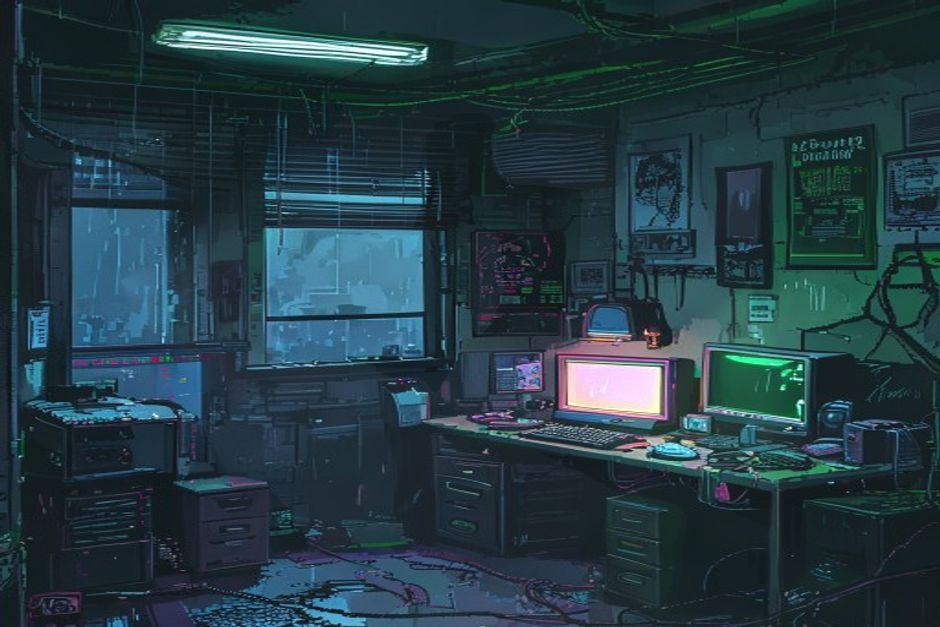
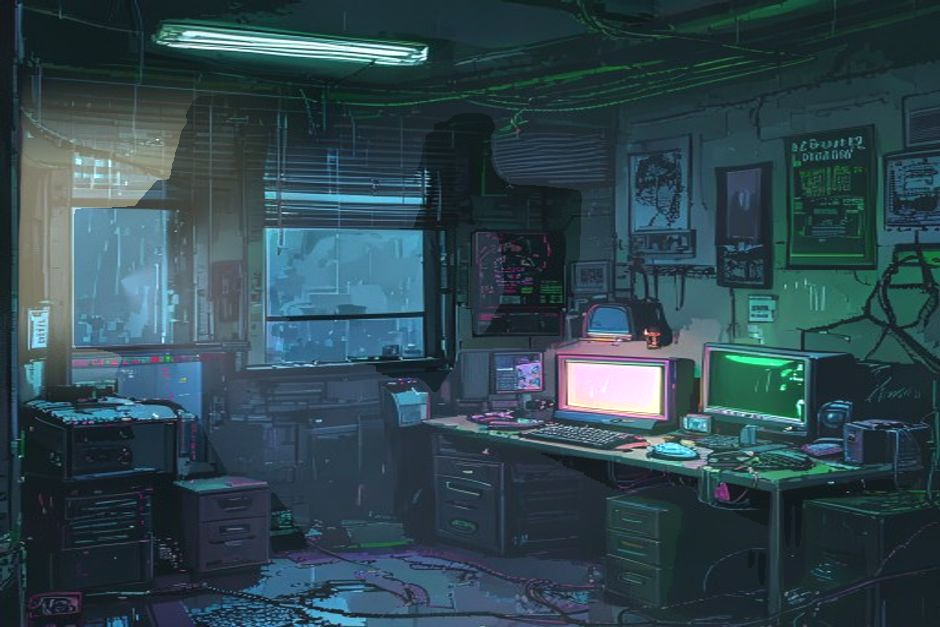
feat: 24 frames for smoother animation (was 12)
- NUM_FRAMES: 12 → 24 (doubled)
- Frame interval: 800ms → 83ms (2s loop)
- Avg inter-frame diff: 1.36 (smoother)
- Loop closure: 1.26 (seamless)

Changed region(s): [[0.0, 0.1515, 0.3394, 0.6667]]

diff --git a/index.html b/index.html
@@ -859,7 +859,7 @@ const Game = {
   bgFrames: {},
   currentFrame: 0,
   frameTimer: 0,
-  frameInterval: 800,
+  frameInterval: 83,
   masks: {},
   objMasks: {},
   selectedItem: null,
@@ -887,7 +887,7 @@ const Game = {
       'bg_tower_exterior', 'bg_server_room', 'bg_rooftop', 'bg_office'
     ];
     const portraits = ['portrait_kai', 'portrait_oracle'];
-    const NUM_FRAMES = 12; // AI 关键帧 + 光流插值生成 12 帧/场景
+    const NUM_FRAMES = 24; // Depth Lighting 生成 24 帧/场景
 
     const loadImg = (src) => {
       return new Promise((resolve) => {

diff --git a/gen_depth_lighting.py b/gen_depth_lighting.py
@@ -25,7 +25,7 @@ import torch
 
 # ── Constants ──────────────────────────────────────────────────────
 ASSETS_DIR = "assets"
-NUM_FRAMES = 12
+NUM_FRAMES = 24
 SHADOW_STEPS = 64
 AMBIENT = 0.02  # 深夜最低环境光
 
